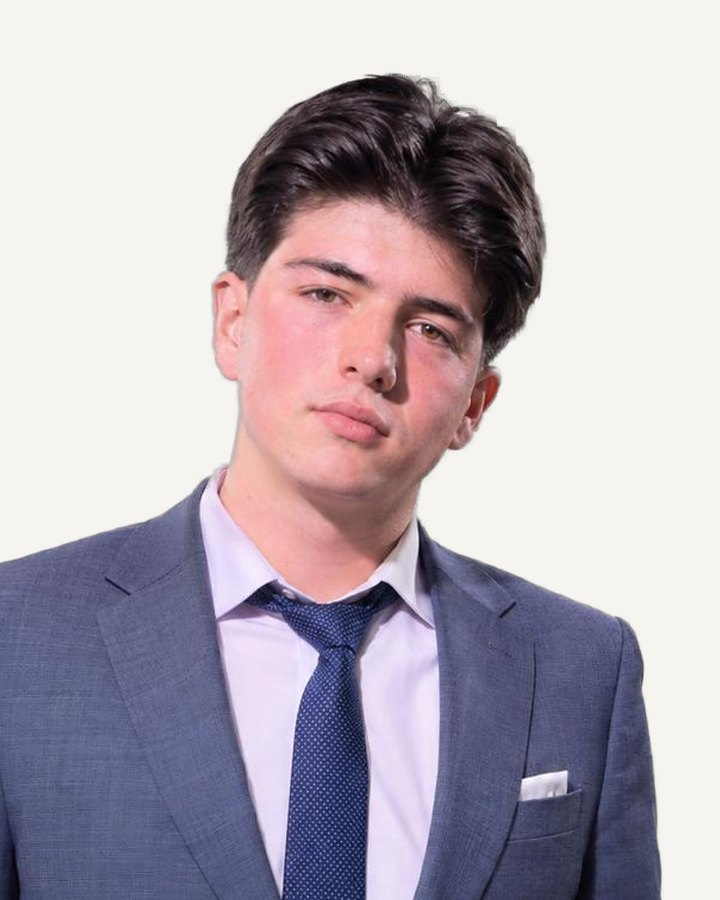
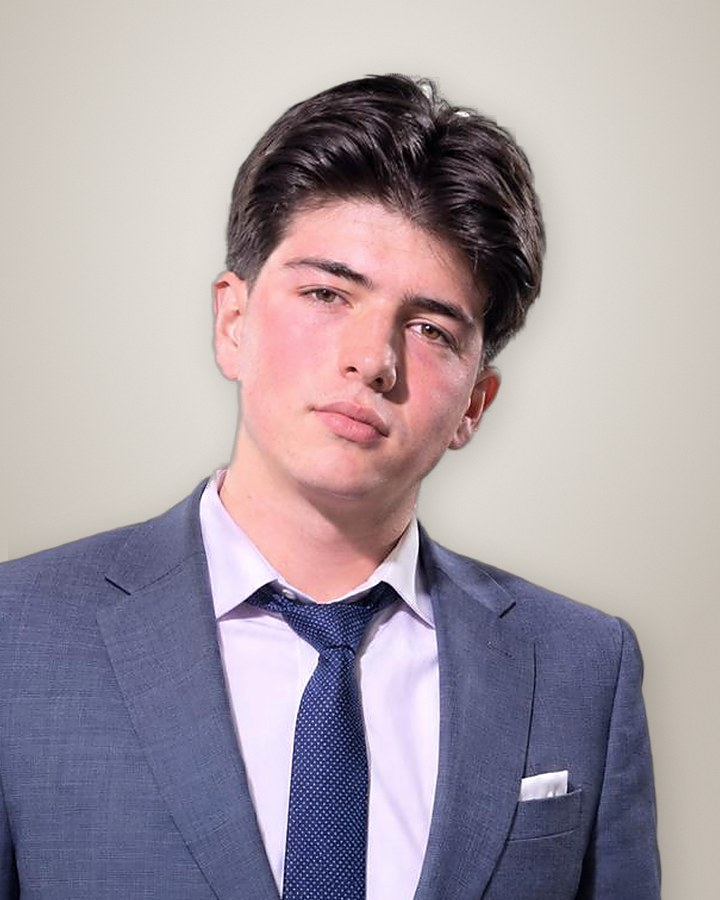
Review: premium team photos, quotes without guillemets

diff --git a/src/trust.js b/src/trust.js
@@ -98,7 +98,7 @@ if (/[?&]preview\b/.test(location.search)) {
         '<div class="team-grid">' + team.map(function (m) {
         return '<figure class="member">' + (m.photo ? '<img src="' + esc(m.photo) + '" alt="' + esc(m.name) + ', ' + esc(m.role || '') + '" loading="lazy" width="720" height="960">' : '<span class="member-ph">Fotografia</span>') +
           '<figcaption><b>' + esc(m.name) + '</b><span>' + esc(m.role || '') + '</span>' + (m.area ? '<small>' + esc(m.area) + '</small>' : '') +
-          (m.line ? '<p>«' + esc(m.line) + '»</p>' : '') + '</figcaption></figure>';
+          (m.line ? '<p>' + esc(m.line) + '</p>' : '') + '</figcaption></figure>';
       }).join('') + '</div>';
       t.hidden = false;
     }

diff --git a/src/styles.css b/src/styles.css
@@ -620,3 +620,10 @@ html.anim.calm .reveal { transform: none; transition: opacity .5s ease; transiti
   .team-grid .member { flex: 0 0 80%; scroll-snap-align: center; }
 }
 .about-in > * { min-width: 0; }
+
+/* Team cards, studio look: the photo sits on its own backdrop, a thin gold
+   rule under it, the name set in the serif. */
+.member { border: 0; box-shadow: 0 1px 0 rgba(19, 22, 26, .04), 0 18px 40px -28px rgba(19, 22, 26, .45); }
+.member img { background: #E6E1DA; border-bottom: 2px solid var(--gold); }
+.member figcaption { padding: 18px 20px 20px; }
+.member figcaption b { font-family: var(--serif); font-weight: 500; font-size: 21px; letter-spacing: .005em; }
